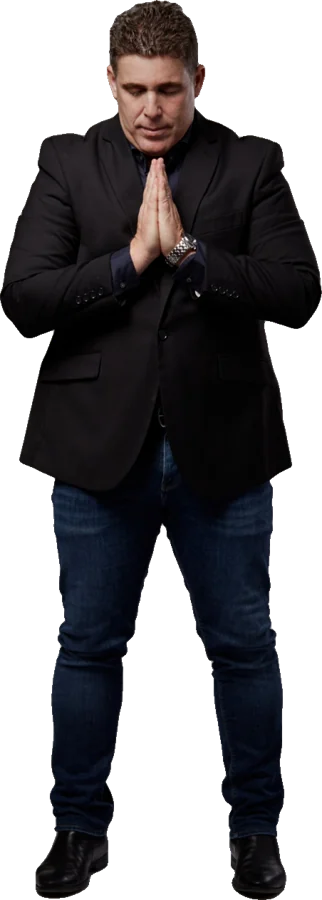
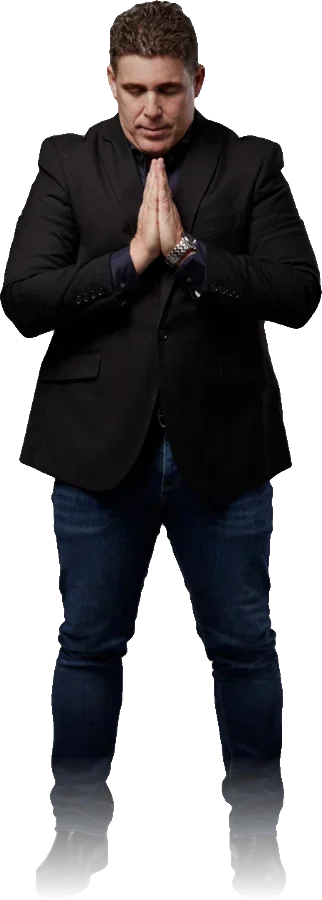
Nir poses: baked fade, no clipped shadows
Claude-Session: https://claude.ai/code/session_01RpdSEdKUmgxEMySWFN3BSL

Changed region(s): [[0.0932, 0.84, 0.3727, 1.0], [0.6832, 0.84, 0.9006, 1.0], [0.9938, 0.3111, 1.0, 0.3422]]

diff --git a/app/globals.css b/app/globals.css
@@ -798,11 +798,12 @@ img, svg { display: block; }
 .meet-card .nir-tag { margin-bottom: 10px; }
 
 /* ---------- Nir cut-out poses ---------- */
-.nir-pose { display: block; height: auto; user-select: none; pointer-events: none; filter: drop-shadow(0 30px 40px rgba(0,0,0,.55)); -webkit-mask-image: linear-gradient(to bottom, #000 82%, transparent 100%); mask-image: linear-gradient(to bottom, #000 82%, transparent 100%); }
+.nir-pose { display: block; height: auto; user-select: none; pointer-events: none; filter: drop-shadow(0 18px 22px rgba(0,0,0,.5)); }
 .hero-nir { position: absolute; top: -178px; right: 10px; z-index: 1; animation: fadeUp 1s .35s var(--ease) both; }
 .hero-form .hero-form-mascot { z-index: 3; }
 .welcome-hero { position: relative; display: inline-flex; align-items: flex-end; width: fit-content; }
 .welcome-hero .mascot { position: absolute; bottom: 6px; left: -34px; }
+.welcome-hero .nir-pose { width: 180px !important; }
 .vision-photo .nir-pose { margin-inline: auto; }
 .xr-nir { margin-block: -28px; align-self: end; }
 .scan-nir { margin-bottom: -10px; }
